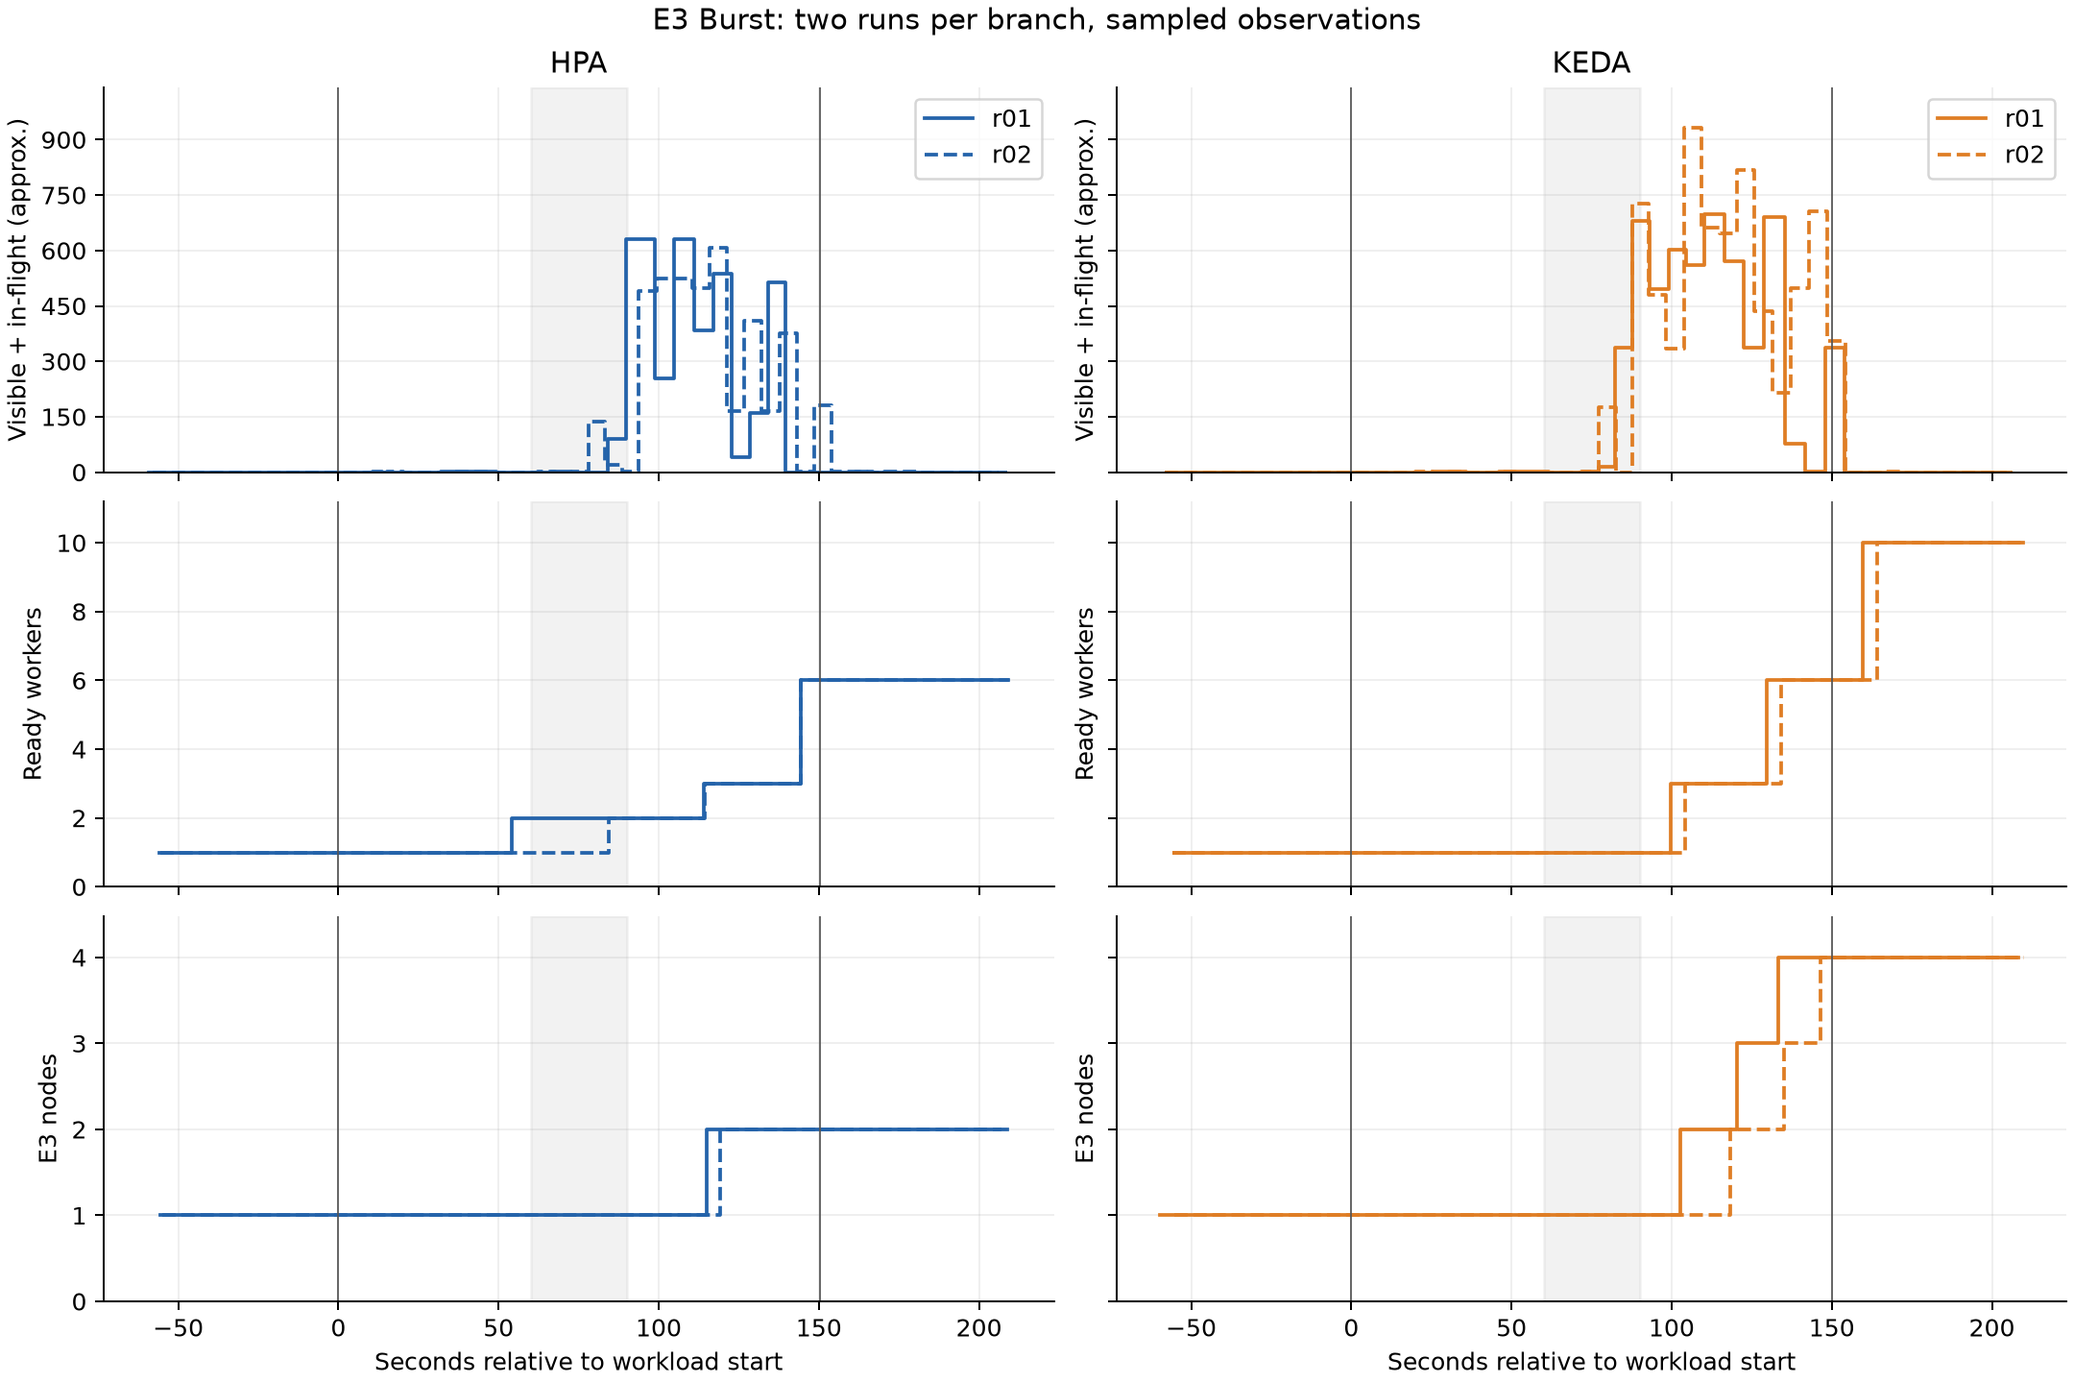
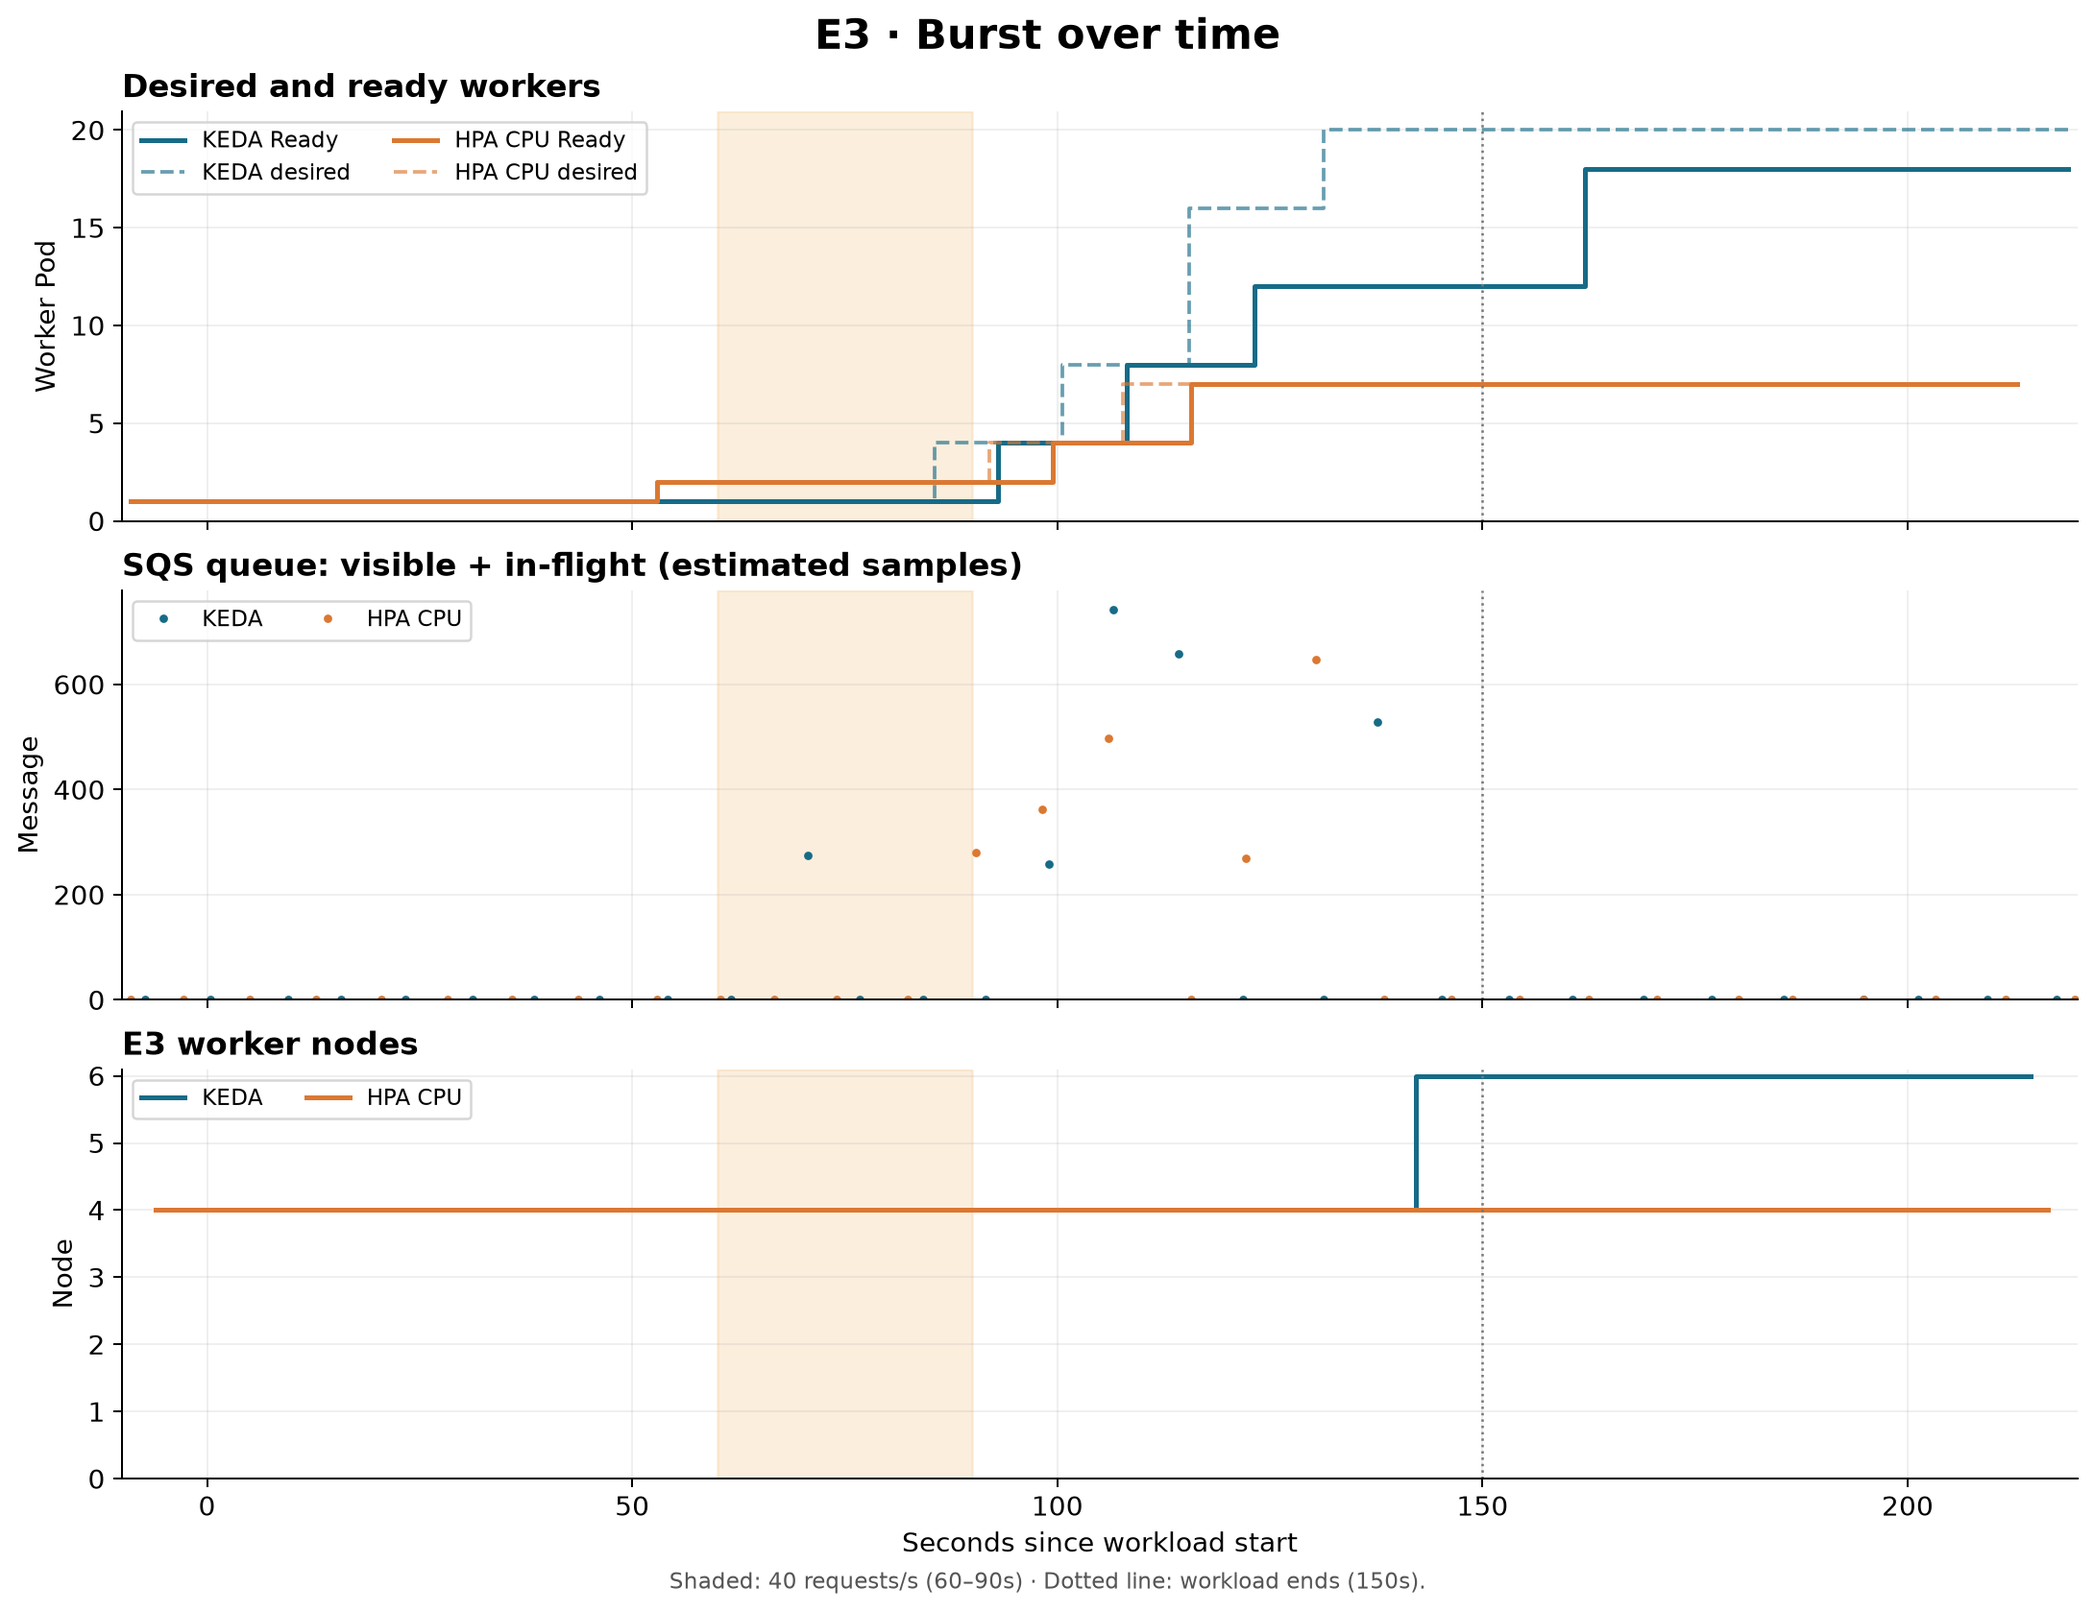
refactor(experiments): update E3 experiment configuration and metrics for autoscaling comparison

diff --git a/experiments/E3/plot_e3.py b/experiments/E3/plot_e3.py
@@ -1,0 +1,63 @@
+from pathlib import Path
+import datetime as dt
+import json
+import matplotlib
+matplotlib.use('Agg')
+import matplotlib.pyplot as plt
+
+BASE = Path(__file__).resolve().parents[1] / 'results' / 'E3'
+OUT = Path(__file__).resolve().parent / 'figures'
+COLORS = {'keda': '#176b87', 'hpa': '#db7832'}
+LABELS = {'keda': 'KEDA', 'hpa': 'HPA CPU'}
+plt.rcParams.update({'font.family': 'DejaVu Sans', 'font.size': 11, 'axes.spines.top': False, 'axes.spines.right': False, 'axes.titleweight': 'bold', 'figure.facecolor': 'white', 'axes.grid': True, 'grid.alpha': .2})
+
+def read(path):
+    return json.loads(path.read_text(encoding='utf-8-sig'))
+
+def when(value):
+    return dt.datetime.fromisoformat(value.replace('Z', '+00:00')).timestamp()
+
+def samples(path, start, get):
+    data = [json.loads(line) for line in path.read_text(encoding='utf-8').splitlines() if line.strip()]
+    points = [(when(row['observed_at_utc']) - start, get(row['data'])) for row in data]
+    return [(x, y) for x, y in points if -10 <= x <= 220]
+
+def main():
+    OUT.mkdir(parents=True, exist_ok=True)
+    reports = {v: read(BASE / f'E3-{v}-burst-r01' / 'report.json') for v in COLORS}
+    metrics = [('Peak backlog', 'message', lambda r: r['peak_visible_plus_inflight_approx']),
+               ('p95 completion time', 'seconds', lambda r: r['latency_seconds_approx_all_statuses']['p95']),
+               ('Queue drain confirmation', 'seconds after load', lambda r: r['drain_confirmation_seconds_approx']),
+               ('Ready workers', 'pod-minutes', lambda r: r['ready_pod_minutes_approx'])]
+    fig, axes = plt.subplots(2, 2, figsize=(11.8, 7.2), layout='constrained')
+    for ax, (title, unit, fn) in zip(axes.flat, metrics):
+        values = [fn(reports[v]) for v in COLORS]
+        bars = ax.bar(['KEDA', 'HPA CPU'], values, color=[COLORS[v] for v in COLORS], width=.55, zorder=3)
+        ax.set_title(title, loc='left', pad=8); ax.set_ylabel(unit); ax.set_ylim(0, max(values)*1.24)
+        ax.bar_label(bars, labels=[f'{v:,.2f}'.rstrip('0').rstrip('.') for v in values], padding=5, fontsize=11, fontweight='bold')
+        ax.grid(axis='x', visible=False)
+    fig.suptitle('E3 · Burst: KEDA vs CPU HPA', fontsize=17, fontweight='bold')
+    fig.text(.5, -.02, 'SQS queue and latency values are estimates; pod-minutes cover load start to 60 seconds after load.', ha='center', fontsize=9, color='#555')
+    fig.savefig(OUT / 'burst-comparison.png', dpi=180, bbox_inches='tight'); plt.close(fig)
+    fig, axes = plt.subplots(3, 1, figsize=(12, 9), sharex=True, layout='constrained')
+    for v in COLORS:
+        p = BASE / f'E3-{v}-burst-r01'; start = when(reports[v]['workload_started_utc'])
+        worker = samples(p/'events/collect-worker-samples.jsonl', start, lambda x: (x['desired'], x['ready']))
+        queue = samples(p/'metrics/collect-sqs-samples.jsonl', start, lambda x: sum(x['main']['counts'][k] for k in ('ApproximateNumberOfMessages', 'ApproximateNumberOfMessagesNotVisible')))
+        nodes = samples(p/'events/collect-topology-samples.jsonl', start, lambda x: sum(n.get('labels', {}).get('karpenter.sh/nodepool') == 'e3-orders' for n in x['nodes']))
+        axes[0].step([x for x,y in worker], [y[1] for x,y in worker], where='post', color=COLORS[v], linewidth=2, label=LABELS[v]+' Ready')
+        axes[0].step([x for x,y in worker], [y[0] for x,y in worker], where='post', color=COLORS[v], linestyle='--', alpha=.65, label=LABELS[v]+' desired')
+        axes[1].plot([x for x,y in queue], [y for x,y in queue], '.', color=COLORS[v], markersize=5, label=LABELS[v])
+        axes[2].step([x for x,y in nodes], [y for x,y in nodes], where='post', color=COLORS[v], linewidth=2, label=LABELS[v])
+    for ax in axes:
+        ax.axvspan(60,90,color='#f3c78c',alpha=.3); ax.axvline(150,color='#777',linestyle=':',linewidth=1); ax.set_xlim(-10,220); ax.set_ylim(bottom=0); ax.legend(loc='upper left', ncol=2, fontsize=9)
+    axes[0].set_ylabel('Worker Pod'); axes[0].set_title('Desired and ready workers',loc='left')
+    axes[1].set_ylabel('Message'); axes[1].set_title('SQS queue: visible + in-flight (estimated samples)',loc='left')
+    axes[2].set_ylabel('Node'); axes[2].set_title('E3 worker nodes',loc='left'); axes[2].set_xlabel('Seconds since workload start')
+    fig.suptitle('E3 · Burst over time',fontsize=17,fontweight='bold')
+    fig.text(.5,-.015,'Shaded: 40 requests/s (60–90s) · Dotted line: workload ends (150s).',ha='center',fontsize=9,color='#555')
+    fig.savefig(OUT/'burst-timeline.png',dpi=180,bbox_inches='tight'); plt.close(fig)
+    print('Generated', OUT)
+
+if __name__ == '__main__':
+    main()

diff --git a/experiments/E3/collect.py b/experiments/E3/collect.py
@@ -204,8 +204,11 @@ def preflight(source, variant):
     if worker.get("node_selector", {}).get("karpenter.sh/nodepool") != "e3-orders":
         raise ValueError("Worker chưa chọn NodePool e3-orders")
     initial_nodes = [n for n in source.nodes() if n.get("labels", {}).get("karpenter.sh/nodepool") == "e3-orders"]
-    if len(initial_nodes) != 1 or not any(c.get("type") == "Ready" and c.get("status") == "True" for c in initial_nodes[0].get("conditions", [])):
-        raise ValueError("E3 cần đúng một node worker Ready trong NodePool e3-orders trước lượt")
+    if len(initial_nodes) != 4 or any(node.get("deleting_at") or not any(c.get("type") == "Ready" and c.get("status") == "True" for c in node.get("conditions", [])) for node in initial_nodes):
+        raise ValueError("E3 cần đúng 4 node worker Ready trong NodePool e3-orders trước lượt")
+    reserve_pods = source.kube("-n", source.target["namespace"], "get", "pods", "-l", "app=e3-warm-capacity").get("items", [])
+    if reserve_pods:
+        raise ValueError("E3 còn Pod giữ chỗ; chờ đủ 4 Pod Ready rồi xóa Deployment giữ chỗ trước lượt")
     controllers = source.controllers()
     if set(controllers) != expected[variant]:
         raise ValueError(f"Autoscaler không khớp nhánh {variant}: {controllers}")
@@ -215,12 +218,12 @@ def preflight(source, variant):
         spec = hpa["spec"]
         metrics = spec.get("metrics", [])
         if (hpa["metadata"].get("labels", {}).get("experiments.retailstore.dev/owner") != "e3"
-                or spec.get("minReplicas", 1) != 1 or spec.get("maxReplicas") != 10
+                or spec.get("minReplicas", 1) != 1 or spec.get("maxReplicas") != 20
                 or len(metrics) != 1 or metrics[0].get("type") != "Resource"
                 or metrics[0].get("resource", {}).get("name") != "cpu"
                 or metrics[0].get("resource", {}).get("target", {}).get("type") != "Utilization"
                 or metrics[0].get("resource", {}).get("target", {}).get("averageUtilization") != 60):
-            raise ValueError("HPA E3 không đúng cấu hình min=1, max=10, CPU=60% hoặc thiếu label E3")
+            raise ValueError("HPA E3 không đúng cấu hình min=1, max=20, CPU=60% hoặc thiếu label E3")
     if variant == "keda":
         scaled = source.kube("-n", ns, "get", "scaledobject", "e3-orders-sqs")
         hpa = source.kube("-n", ns, "get", "hpa", "e3-orders-keda-hpa")
@@ -230,16 +233,16 @@ def preflight(source, variant):
         trigger = triggers[0] if len(triggers) == 1 else {}
         if (scaled["metadata"].get("labels", {}).get("experiments.retailstore.dev/owner") != "e3"
                 or not any(o.get("uid") == scaled["metadata"]["uid"] and o.get("kind") == "ScaledObject" for o in owners)
-                or spec.get("minReplicaCount") != 1 or spec.get("maxReplicaCount") != 10
-                or spec.get("pollingInterval", 30) != 30
-                or spec.get("cooldownPeriod", 300) != 300
+                or spec.get("minReplicaCount") != 1 or spec.get("maxReplicaCount") != 20
+                or spec.get("pollingInterval") != 10
+                or spec.get("cooldownPeriod") != 120
                 or hpa.get("spec", {}).get("minReplicas", 1) != 1
-                or hpa.get("spec", {}).get("maxReplicas") != 10
+                or hpa.get("spec", {}).get("maxReplicas") != 20
                 or trigger.get("type") != "aws-sqs-queue"
                 or str(trigger.get("metadata", {}).get("queueLength")) != "10"
                 or str(trigger.get("metadata", {}).get("scaleOnInFlight", "true")).lower() != "true"
                 or str(trigger.get("metadata", {}).get("scaleOnDelayed", "false")).lower() != "false"):
-            raise ValueError("ScaledObject/HPA E3 không đúng owner hoặc cấu hình min=1, max=10, queueLength=10")
+            raise ValueError("ScaledObject/HPA E3 không đúng owner hoặc cấu hình min=1, max=20, queueLength=10")
         if not any(c.get("type") == "Ready" and c.get("status") == "True"
                    for c in scaled.get("status", {}).get("conditions", [])):
             raise ValueError("ScaledObject E3 chưa Ready")

diff --git a/experiments/E3/README.md b/experiments/E3/README.md
@@ -6,36 +6,48 @@ So sánh phản ứng, hiệu năng và tài nguyên của HPA theo CPU với KE
 
 ## Thiết kế
 
-Mỗi lượt bắt đầu với một worker và một node worker Ready. Hai nhánh dùng cùng workload, min 1/max 10 worker; HPA có CPU target 60%, KEDA có queueLength 10. Karpenter mở rộng node khi cần.
+Mỗi lượt bắt đầu với một worker Ready và 4 node worker được giữ sẵn. Hai nhánh dùng cùng workload, min 1/max 20 worker; HPA có CPU target 60%, KEDA có queueLength 10. NodePool không consolidation trong quá trình đo.
 
-Step và Burst có bốn lượt mỗi nhánh; Steady có hai lượt mỗi nhánh.
+So sánh dùng workload Burst: 5 request/s trong 60 giây, 40 request/s trong 30 giây và 5 request/s trong 60 giây.
 
 ## Cấu hình và workload
 
 | File | Chức năng |
 |---|---|
-| `karpenter-values.yaml`, `warm-capacity.yaml` | NodePool `e3-orders` On-Demand `c7i-flex.large`, consolidation `Never`; một Pod tạm để giữ sẵn một node |
+| `karpenter-values.yaml`, `warm-capacity.yaml` | NodePool `e3-orders` dùng `t3.small`, không consolidation; 4 Pod tạm tạo 4 node |
 | `autoscaled-values.yaml` | Worker chọn NodePool E3, CPU request 500m, memory request 256Mi |
-| `hpa.yaml`, `keda.yaml` | HPA CPU target 60%, hoặc KEDA SQS queueLength 10; cả hai min 1/max 10 |
+| `hpa.yaml`, `keda.yaml` | HPA CPU target 60%, hoặc KEDA SQS queueLength 10; cả hai min 1/max 20 |
 | `stead.js`, `step.js`, `burst.js`, `workload-common.js` | Steady 5/s 2 phút; Step 5→10→15→20→15→10→5/s, mỗi bậc 1 phút; Burst 5/s 1 phút → 40/s 30 giây → 5/s 1 phút |
 | `run.py`, `run.sh`, `collect.py` | Hồ sơ, lệnh tắt và thu SQS, Prometheus, Pod, NodeClaim, node và event |
 | `report.py`, `compare.py` | Báo cáo từng lượt và so sánh HPA/KEDA cùng profile/cửa sổ |
 
-Các cấu hình này đã được kiểm tra trên cluster trong đợt ngày 2026-11-07; điều kiện và giới hạn được ghi trong báo cáo. CPU request 500m khác 128m của E0; HPA target 60% được tính theo request này. Một node Ready không tự chứng minh capacity trống tương đương: kiểm tra CPU, memory, Pod/IP trống và image cache từng nhánh. Pod Pending và node mới được ghi nhận; chênh lệch kết quả có thể bao gồm ảnh hưởng provisioning. KEDA/Karpenter, API và monitoring cần node hệ thống độc lập. Kiểm tra quota, IAM, subnet và chi phí; `Never` có thể giữ node sau khi tải đã dừng.
+CPU request 500m khác 128m của E0; HPA target 60% được tính theo request này. Kiểm tra CPU, memory, Pod/IP trống, loại node và image cache tương đương giữa hai nhánh. Ghi nhận Pod Pending và node mới trong cửa sổ đo để phân tích tác động của provisioning. KEDA/Karpenter, API và monitoring cần node hệ thống độc lập. Kiểm tra quota, IAM, subnet và chi phí.
 
-## Kết quả
+Trước mỗi lượt, chuẩn bị 4 node Ready, xóa các Pod giữ chỗ và bắt đầu với một worker. Giữ điều kiện node tương đương giữa hai nhánh.
 
-Giá trị trong bảng là trung vị của các lượt ở từng nhánh.
+## Kết quả Burst
 
-| Profile | Nhánh | p95 E2E ≈ (giây) | Peak queue ≈ | Ready Pod-phút ≈ | Node-phút ≈ |
-|---|---|---:|---:|---:|---:|
-| Step | HPA | 0,243 | 3 | 42,97 | 18,82 |
-| Step | KEDA | 0,959 | 38 | 20,01 | 10,91 |
-| Burst | HPA | 28,77 | 620 | 10,84 | 6,04 |
-| Burst | KEDA | 51,02 | 876,5 | 13,90 | 8,46 |
-| Steady | HPA | 0,243 | 1 | 5,31 | 4,00 |
-| Steady | KEDA | 0,243 | 1 | 3,00 | 4,00 |
+Hai nhánh bắt đầu với cùng 4 node `t3.small`, 1 worker Ready, cùng image và workload. Mỗi nhánh ghi nhận 1.799 job được API chấp nhận và không có request lỗi theo k6.
 
-Với Step, HPA có p95 và backlog thấp hơn trong các lượt đo, còn KEDA dùng ít Pod-phút và node-phút hơn. Với Burst, HPA có p95 và backlog trung vị thấp hơn; Steady cho p95 gần nhau ở hai nhánh.
+| Chỉ số | KEDA | HPA CPU |
+|---|---:|---:|
+| Peak queue visible + in-flight ≈ (message) | 742 | 648 |
+| p50 E2E ≈ (giây) | 12,77 | 9,26 |
+| p95 E2E ≈ (giây) | 28,37 | 27,88 |
+| Xác nhận queue drain sau tải ≈ (giây) | 18,9 | 44,8 |
+| Throughput thành công trong tải ≈ (job/giây) | 9,78 | 10,89 |
+| Worker Ready ≈ (Pod-phút) | 23,76 | 14,12 |
+| Node worker ≈ (node-phút) | 20,27 | 18,00 |
+| Pod Pending / node bổ sung | Có / 2 | Không quan sát / 0 |
 
-Số lượt còn ít và các chỉ số là ước lượng; kết quả không chứng minh khác biệt có ý nghĩa thống kê hoặc mọi job hoàn thành duy nhất. Node-phút là thời gian node Kubernetes hiện diện trong cửa sổ đo, không phải chi phí EC2.
+![So sánh kết quả Burst](figures/burst-comparison.png)
+
+HPA có peak queue thấp hơn khoảng 13% và dùng ít Pod-phút hơn khoảng 41%; p95 của hai nhánh gần nhau. KEDA có thời điểm xác nhận queue drain sớm hơn, đồng thời yêu cầu nhiều worker hơn và tạo thêm 2 node.
+
+![Diễn biến Burst](figures/burst-timeline.png)
+
+Theo mẫu Pod, HPA có 2 worker Ready trước pha tải cao và sau đó đạt 7 worker Ready. KEDA tăng desired lên 20; một số Pod Pending khi 4 node ban đầu không còn đủ capacity, và Karpenter bổ sung 2 node. Kết quả phản ánh cả phản ứng của autoscaler và thời gian bổ sung node.
+
+Queue SQS và các phân vị là giá trị xấp xỉ; các mẫu queue có dao động. Pod-phút tính từ đầu tải đến 60 giây sau tải; node-phút còn tính thêm 60 giây trước tải và không phải chi phí EC2. Counter success có thể thiếu phần xử lý trước mẫu đầu của Pod mới; queue và DLQ rỗng ở snapshot cuối, nhưng chưa đối soát từng job ID.
+
+Có thể tạo lại biểu đồ bằng `python experiments/E3/plot_e3.py` sau khi cài `matplotlib`.
